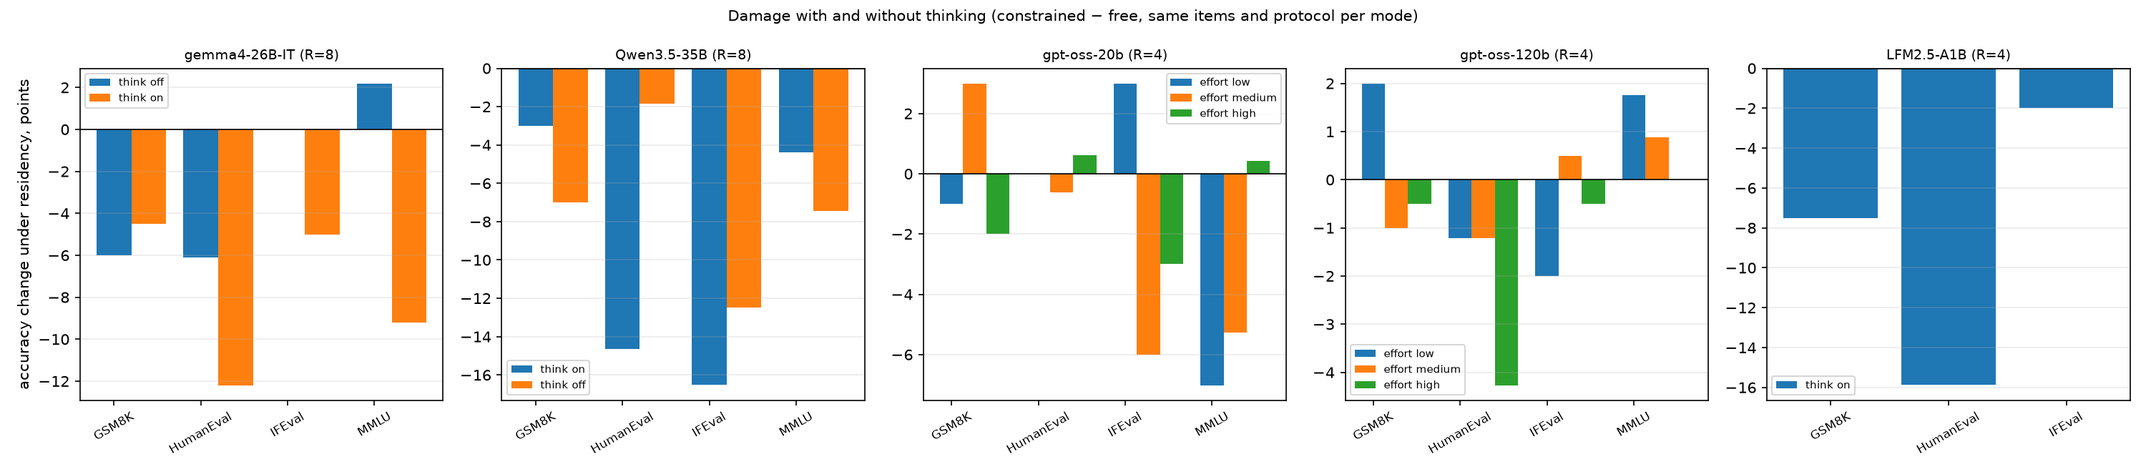
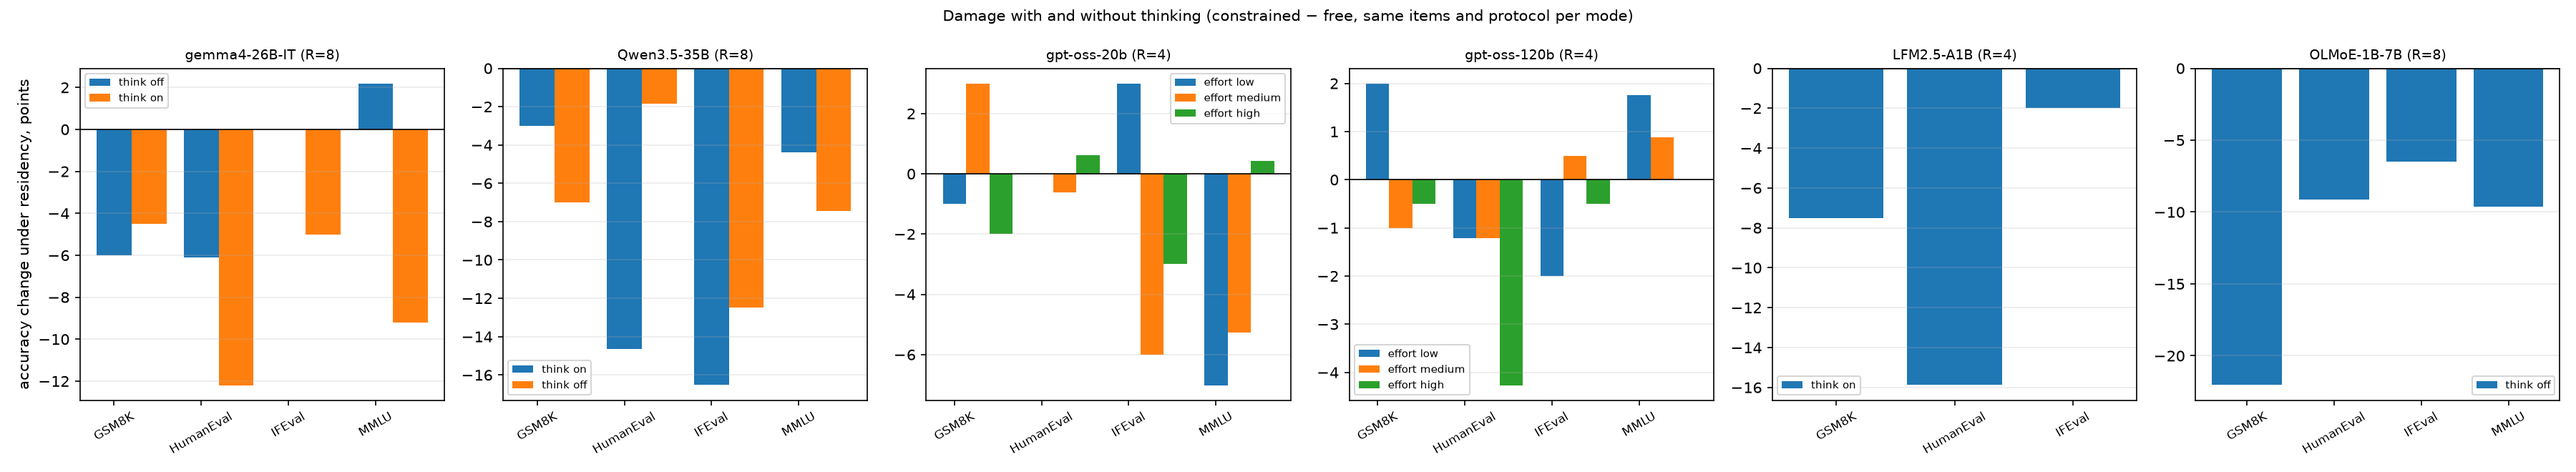
instruct row declutter: top legend strip, fanned dots, slim whiskers, mode-pair gap; paper: bump to latest Overleaf state

diff --git a/analysis/residency/plot_instruct.py b/analysis/residency/plot_instruct.py
@@ -273,57 +273,69 @@ def bench():
 
 def combined_row():
     """Paper variant: per-model and per-benchmark damage side by side in ONE row.
-    Right panel restyled like the left: mode-colored mean bars (over models) with
-    per-model dots, instead of 20 per-model bars per group."""
+    All legends live in a strip above the axes; per-item dots fan horizontally inside
+    each bar instead of stacking on its centerline."""
     SPEC, TASKS, delta = load_damage()
     DCOL = dict(zip(TASKS + ["WB"], plt.cm.Set2(np.linspace(0, 0.75, 5))))
     MCOL = plt.cm.tab10(np.linspace(0, 1, 10))
     SHORT = ["OLMoE", "LFM2.5", "20b", "gemma4", "Qwen3.5", "120b"]
     plt.rcParams.update({"font.size": 16, "axes.labelsize": 15.5,
                          "xtick.labelsize": 13.5, "ytick.labelsize": 13,
-                         "legend.fontsize": 10.5})
-    fig, (axl, axr) = plt.subplots(1, 2, figsize=(15.6, 4.6),
-                                   gridspec_kw={"width_ratios": [1.15, 1],
-                                                "wspace": 0.16})
+                         "legend.fontsize": 11})
+    fig, (axl, axr) = plt.subplots(1, 2, figsize=(15.6, 5.0),
+                                   gridspec_kw={"width_ratios": [1.12, 1],
+                                                "wspace": 0.13})
+    W = 0.15          # bar width; 4 bars + mode gap span ~0.66 of unit pitch
+    GAPM = 0.05       # extra gap between the off-pair and the on-pair
+    EK = dict(elinewidth=0.9, capsize=1.5, ecolor="0.25")
+
+    def bx(c, nbars):
+        # bar centre for combo index c of nbars, with a mode gap after the first pair
+        off = (c - (nbars - 1) / 2) * W
+        if nbars == 4:
+            off += (GAPM / 2) if c >= 2 else (-GAPM / 2)
+        return off
+
     # ---- left: per model ----
-    w = 0.17
     for i, spec in enumerate(SPEC):
         nbars = 2 * len(spec[1])
-        for s, mode in enumerate(spec[1]):
+        c = 0
+        for mode in spec[1]:
             for arm_idx in (0, 1):
                 ds = [delta(spec, mode, arm_idx, b) for b in TASKS]
                 got = [d for d in ds if d is not None]
                 if not got:
+                    c += 1
                     continue
                 m = sum(got) / len(got)
                 se = (sum((d - m) ** 2 for d in got) / max(1, len(got) - 1)) ** 0.5 \
                     / len(got) ** 0.5
-                x = i + (2 * s + arm_idx - (nbars - 1) / 2) * w
-                axl.bar(x, m, width=w * 0.9, yerr=se, capsize=2,
-                        color=MODE_COL[mode[1]], alpha=1.0 if arm_idx == 0 else 0.5,
-                        edgecolor="black", lw=0.5, zorder=2)
-                for b, d in zip(TASKS, ds):
-                    if d is not None:
-                        axl.scatter(x, d, s=26, color=DCOL[b], edgecolor="black",
-                                    lw=0.4, zorder=3)
+                x = i + bx(c, nbars)
+                axl.bar(x, m, width=W * 0.9, yerr=se, color=MODE_COL[mode[1]],
+                        alpha=1.0 if arm_idx == 0 else 0.5, edgecolor="black",
+                        lw=0.5, zorder=2, error_kw=EK)
+                pts = [(b, d) for b, d in zip(TASKS, ds) if d is not None]
                 dwb = delta(spec, mode, arm_idx, "WB")
                 if dwb is not None:
-                    axl.scatter(x, dwb, s=62, marker="*", color=DCOL["WB"],
-                                edgecolor="black", lw=0.4, zorder=3)
-    for b in TASKS:
-        axl.scatter([], [], s=34, color=DCOL[b], edgecolor="black", lw=0.4, label=b)
-    axl.scatter([], [], s=66, marker="*", color=DCOL["WB"], edgecolor="black",
-                lw=0.4, label="WritingBench (x10)")
+                    pts.append(("WB", dwb))
+                for j, (b, d) in enumerate(pts):
+                    xo = x + (j - (len(pts) - 1) / 2) * 0.030
+                    if b == "WB":
+                        axl.scatter(xo, d, s=46, marker="*", color=DCOL["WB"],
+                                    edgecolor="black", lw=0.35, zorder=3)
+                    else:
+                        axl.scatter(xo, d, s=17, color=DCOL[b], edgecolor="black",
+                                    lw=0.35, zorder=3)
+                c += 1
     axl.axhline(0, color="black", lw=0.8)
     axl.set_xticks(range(len(SPEC)))
     axl.set_xticklabels(SHORT)
     axl.set_ylabel("damage under residency, points")
-    axl.legend(ncol=2, loc="lower right", framealpha=0.95)
     axl.grid(alpha=0.25, axis="y")
+
     # ---- right: per benchmark, mode-mean bars + per-model dots ----
     groups = TASKS + ["WB"]
     glabel = {"WB": "WritingB.\n(x10)"}
-    w = 0.17
     for j, b in enumerate(groups):
         combos = [("off", 0), ("off", 1), ("on", 0), ("on", 1)]
         for c, (role, arm_idx) in enumerate(combos):
@@ -341,27 +353,41 @@ def combined_row():
             m = sum(vals) / len(vals)
             se = (sum((d - m) ** 2 for d in vals) / max(1, len(vals) - 1)) ** 0.5 \
                 / len(vals) ** 0.5
-            x = j + (c - 1.5) * w
-            axr.bar(x, m, width=w * 0.9, yerr=se, capsize=2, color=MODE_COL[role],
+            x = j + bx(c, 4)
+            axr.bar(x, m, width=W * 0.9, yerr=se, color=MODE_COL[role],
                     alpha=1.0 if arm_idx == 0 else 0.5, edgecolor="black", lw=0.5,
-                    zorder=2)
-            for d, i in zip(vals, mods):
-                axr.scatter(x, d, s=26, color=MCOL[i], edgecolor="black", lw=0.4,
+                    zorder=2, error_kw=EK)
+            for jj, (d, i) in enumerate(zip(vals, mods)):
+                xo = x + (jj - (len(vals) - 1) / 2) * 0.026
+                axr.scatter(xo, d, s=17, color=MCOL[i], edgecolor="black", lw=0.35,
                             zorder=3)
-    for i, nm in enumerate(SHORT):
-        axr.scatter([], [], s=34, color=MCOL[i], edgecolor="black", lw=0.4, label=nm)
-    from matplotlib.patches import Patch as _P
-    axr.legend(handles=axr.get_legend_handles_labels()[0] +
-               [_P(facecolor=MODE_COL["off"], edgecolor="black", label="think off/low"),
-                _P(facecolor=MODE_COL["on"], edgecolor="black", label="think on/high"),
-                _P(facecolor="0.25", edgecolor="black", label="dark: R = k"),
-                _P(facecolor="0.85", edgecolor="black", label="light: R = 12.5%")],
-               ncol=2, loc="upper right", framealpha=0.95, fontsize=9.5)
     axr.axhline(0, color="black", lw=0.8)
     axr.set_xticks(range(len(groups)))
     axr.set_xticklabels([glabel.get(b, b) for b in groups])
     axr.grid(alpha=0.25, axis="y")
-    fig.tight_layout()
+
+    # ---- one legend strip above both panels ----
+    from matplotlib.lines import Line2D
+    from matplotlib.patches import Patch as _P
+    def dot(color, label, star=False):
+        return Line2D([], [], marker="*" if star else "o", ls="",
+                      ms=10 if star else 6, color=color, markeredgecolor="black",
+                      markeredgewidth=0.35, label=label)
+    blank = Line2D([], [], ls="", label=" ")
+    # column-major fill with ncol=8 and 2 rows: build thematic column pairs
+    H = [dot(DCOL["GSM8K"], "GSM8K"), dot(DCOL["IFEval"], "IFEval"),
+         dot(DCOL["HumanEval"], "HumanEval"), dot(DCOL["MMLU"], "MMLU"),
+         dot(DCOL["WB"], "WritingBench (x10)", star=True), blank,
+         dot(MCOL[0], "OLMoE"), dot(MCOL[1], "LFM2.5"),
+         dot(MCOL[2], "20b"), dot(MCOL[3], "gemma4"),
+         dot(MCOL[4], "Qwen3.5"), dot(MCOL[5], "120b"),
+         _P(facecolor=MODE_COL["off"], edgecolor="black", label="think off / low"),
+         _P(facecolor=MODE_COL["on"], edgecolor="black", label="think on / high"),
+         _P(facecolor="0.25", edgecolor="black", label="dark: R = k"),
+         _P(facecolor="0.85", edgecolor="black", label="light: R = 12.5%")]
+    fig.legend(handles=H, loc="upper center", ncol=8, frameon=False,
+               bbox_to_anchor=(0.5, 1.02), columnspacing=1.1, handletextpad=0.4)
+    fig.tight_layout(rect=(0, 0, 1, 0.90))
     _save(fig, "instruct_damage_row")
 
 
